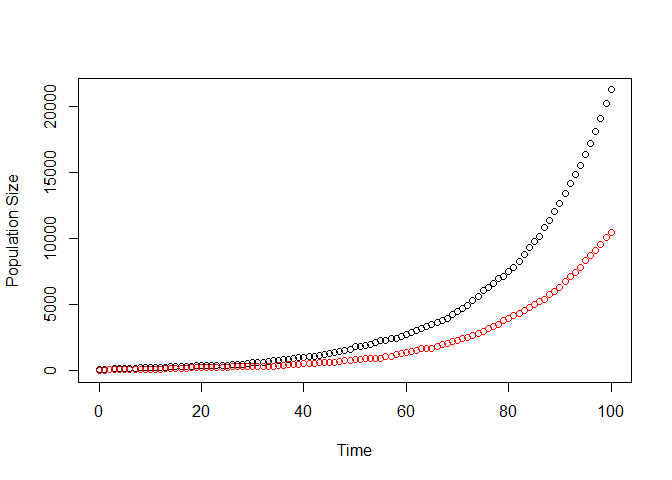
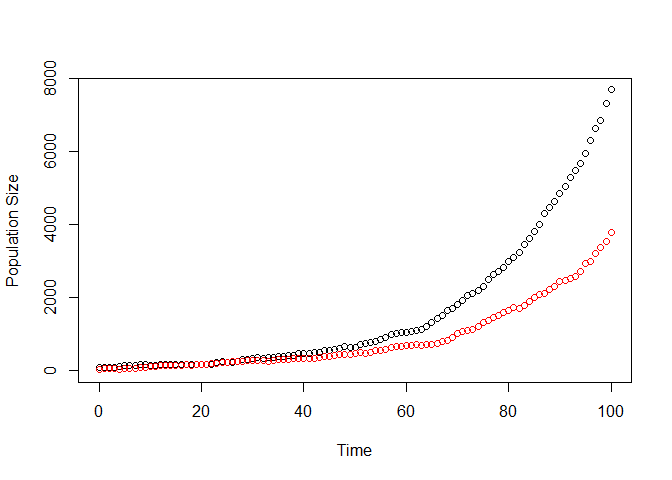
readme

diff --git a/README.md b/README.md
@@ -270,14 +270,14 @@ mut = read.csv(mutfiles[length(mutfiles)])
 head(mut)
 ```
 
-|  mutant|     time| population |  fitness|
-|-------:|--------:|:-----------|--------:|
-|       1|  24.7297| pop1       |  0.00000|
-|       2|  45.7692| pop1       |  2.75226|
-|       3|  73.4433| pop1       |  3.82084|
-|       4|  80.7638| pop1       |  4.87195|
-|       5|  81.0776| pop1       |  2.54080|
-|       6|  86.6571| pop1       |  3.19649|
+|  mutant|     time| population |   fitness|
+|-------:|--------:|:-----------|---------:|
+|       1|  24.3701| pop1       |  0.773268|
+|       2|  63.2624| pop1       |  1.657660|
+|       3|  72.5182| pop1       |  0.813800|
+|       4|  75.7739| pop1       |  0.000000|
+|       5|  82.3002| pop1       |  0.000000|
+|       6|  93.4622| pop1       |  2.923850|
 
 Let us also take a quick look at a census file. We will take a look at the full census of pop1 at the end of the simulation time.
 
@@ -292,16 +292,14 @@ c_pop1 = read.csv(census_pop1_files[length(census_pop1_files)])
 c_pop1[c_pop1$time == max(c_pop1$time),]
 ```
 
-|     |  time|  barcode| mutation     |  fitness|  count|
-|-----|-----:|--------:|:-------------|--------:|------:|
-| 47  |   100|       -1| 0&gt;2       |  2.75226|  19688|
-| 48  |   100|       -1| 0&gt;2&gt;4  |  4.87195|    968|
-| 49  |   100|       -1| 0&gt;2&gt;3  |  3.82084|    589|
-| 50  |   100|       -1| 0&gt;2&gt;8  |  3.56443|     14|
-| 51  |   100|       -1| 0&gt;2&gt;5  |  2.54080|     12|
-| 52  |   100|       -1| 0&gt;2&gt;10 |  3.04121|      8|
-| 53  |   100|       -1| 0&gt;2&gt;12 |  3.43850|      3|
-| 54  |   100|       -1| 0&gt;2&gt;13 |  2.18070|      1|
+|     |  time|  barcode| mutation    |  fitness|  count|
+|-----|-----:|--------:|:------------|--------:|------:|
+| 49  |   100|       -1| 0           |  1.00000|   5122|
+| 50  |   100|       74| 0           |  1.00000|   1506|
+| 51  |   100|       -1| 0&gt;6      |  2.92385|    973|
+| 52  |   100|       78| 0           |  1.00000|     53|
+| 53  |   100|       89| 0           |  1.00000|     40|
+| 54  |   100|       -1| 0&gt;6&gt;7 |  3.21474|      4|
 
 For more detailed examples, please set the vignettes.
 
@@ -326,7 +324,7 @@ As an example of this type of experimental procedure, we point the reader to a c
 
 ### Unique Cell Barcoding
 
-In addition to simulating fluorescent cell labels, DIFFpop can also be used in combination with unique cell barcoding experiments. Unique cell labeling can be achieved by introducing a mobile transcodon into the genome. Upon induction of labeling with tamoxifen, this transcodon is spliced from the genome, and randomly reintegrated at some point in the host genome. Assuming the probability that the transcodon randomly integrating into the same location in two cells is negligible, each cell now contains the transcodon in a unique genomic position. The transcodon in this location will then be passed to all offspring cells and be maintained through replication and differentiation events. At the end of an experiment, cell populations can be sorted and then sequenced for the presence or absence of these barcodes. Alternatively, a sample of cells can be sent off for single cell sequencing, allowing for not only the presence or absence of a particular barcode, but also an estimate of the size of a particular barcode-defined clone.
+In addition to simulating fluorescent cell labels, DIFFpop can also be used in combination with unique cell barcoding experiments. Unique cell labeling can be achieved by introducing a mobile transposon into the genome. Upon induction of labeling with tamoxifen, this transposon is spliced from the genome, and randomly reintegrated at some point in the host genome. Assuming the probability that the transposon randomly integrating into the same location in two cells is negligible, each cell now contains the transposon in a unique genomic position. The transposon in this location will then be passed to all offspring cells and be maintained through replication and differentiation events. At the end of an experiment, cell populations can be sorted and then sequenced for the presence or absence of these barcodes. Alternatively, a sample of cells can be sent off for single cell sequencing, allowing for not only the presence or absence of a particular barcode, but also an estimate of the size of a particular barcode-defined clone..
 
 Simulating unique cell barcoding in DIFFpop can easily be achieved by simply specifying the proportion of cells to be successfully labeling upon system initialization. The census files can then be analyzed upon simulation completion to track the barcode frequencies in the system over time. One can even simulate a single cell barcoding experiment by randomly sampling from the barcode population.
 
